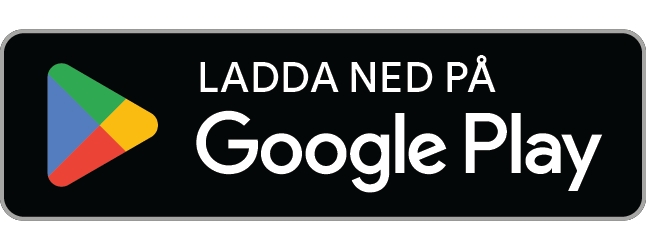
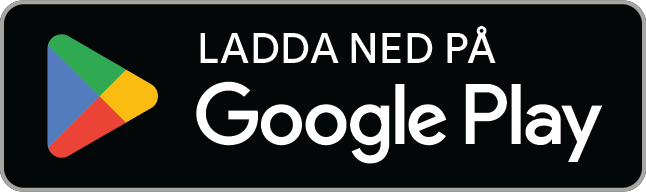
fix(website): granskningsfixar för första vyn (menyn läsbar vid scroll, korta breda fönster, Play-märket lika stort, bild- och rörelsedetaljer)

diff --git a/website/tests/home.spec.ts b/website/tests/home.spec.ts
@@ -11,6 +11,7 @@ test.describe('meny och sidfot', () => {
       await expect(nav.locator('.links a').first()).toHaveText(label);
       await expect(nav.locator('.nav-cta')).toHaveText(getApp);
       await expect(nav.locator('.nav-cta')).toHaveAttribute('href', `${path}#download`);
+      await page.evaluate(() => new Promise((r) => requestAnimationFrame(() => requestAnimationFrame(r))));
       await expect(nav).not.toHaveClass(/is-solid/);
       await expect(nav).toHaveCSS('background-color', 'rgba(0, 0, 0, 0)');
       await page.evaluate(() => window.scrollTo({ top: 3000, behavior: 'instant' }));
@@ -109,7 +110,7 @@ test.describe('första vyn', () => {
       await expect(hero.locator('.meta li')).toHaveCount(3);
       await expect(hero.locator('[data-hero-phone] .ph[role="img"]')).toHaveCount(1);
       await expect(hero.locator('[data-robin] img').first()).toBeVisible();
-      await expect(hero.locator('[data-birdy]')).toBeVisible();
+      await expect(hero.locator('[data-birdy] .birdy-shape')).toHaveCSS('opacity', '1');
       expect(errors).toEqual([]);
     });
   }
@@ -128,6 +129,37 @@ test.describe('första vyn', () => {
     });
   }
 
+  for (const [width, height] of [[1280, 720], [1366, 768], [1536, 730], [1600, 720], [1650, 700], [1920, 800], [1999, 800], [2000, 960], [2560, 1300]] as const) {
+    test(`korta och breda fönster: telefonen går fri och fötterna syns i ${width}×${height}`, async ({ page }) => {
+      await page.setViewportSize({ width, height });
+      await page.goto('/sv/');
+      const phone = (await page.locator('[data-hero-phone] .ph').boundingBox())!;
+      const robin = (await page.locator('[data-robin]').boundingBox())!;
+      const photo = (await page.locator('[data-hero] .photo').boundingBox())!;
+      const overlaps = phone.x < robin.x + robin.width && robin.x < phone.x + phone.width
+        && phone.y < robin.y + robin.height && robin.y < phone.y + phone.height;
+      expect(overlaps, `telefon ${JSON.stringify(phone)} rödhake ${JSON.stringify(robin)}`).toBe(false);
+      expect(robin.y + robin.height, 'fötterna ryms i fotot').toBeLessThanOrEqual(photo.y + photo.height);
+      expect(robin.x + robin.width).toBeLessThanOrEqual(width);
+    });
+  }
+
+  for (const [width, height] of [[390, 844], [1024, 768], [1440, 900]] as const) {
+    test(`menyn blir mossgrön innan texten når den i ${width}×${height}`, async ({ page }) => {
+      await page.setViewportSize({ width, height });
+      await page.goto('/sv/');
+      const nav = page.locator('#site-nav');
+      const navH = await nav.evaluate((n) => n.getBoundingClientRect().height);
+      const copyTop = await page.locator('[data-hero] .copy').evaluate((c) => c.getBoundingClientRect().top + scrollY);
+      const settle = () => page.evaluate(() => new Promise((r) => requestAnimationFrame(() => requestAnimationFrame(r))));
+      await page.evaluate((y) => window.scrollTo({ top: y, behavior: 'instant' }), Math.max(0, copyTop - navH - 30));
+      await settle();
+      await expect(nav).not.toHaveClass(/is-solid/);
+      await page.evaluate((y) => window.scrollTo({ top: y, behavior: 'instant' }), copyTop - navH + 2);
+      await expect(nav).toHaveClass(/is-solid/);
+    });
+  }
+
   test('rödhakens ruta börjar under menyn i 1920 px', async ({ page }) => {
     await page.setViewportSize({ width: 1920, height: 900 });
     await page.goto('/sv/');
@@ -137,11 +169,28 @@ test.describe('första vyn', () => {
   });
 
   test('rubriken ryms på två rader på dator', async ({ page }) => {
-    for (const width of [1024, 1280, 1440, 1920]) {
-      await page.setViewportSize({ width, height: 900 });
-      await page.goto('/sv/');
-      const lines = await page.locator('[data-hero] h1').evaluate((h) => Math.round(h.getBoundingClientRect().height / parseFloat(getComputedStyle(h).lineHeight)));
-      expect(lines, `${width} px`).toBeLessThanOrEqual(2);
+    for (const path of ['/sv/', '/']) {
+      for (const width of [1024, 1280, 1440, 1920]) {
+        await page.setViewportSize({ width, height: 900 });
+        await page.goto(path);
+        await page.evaluate(() => document.fonts.ready);
+        const lines = await page.locator('[data-hero] h1').evaluate((h) => Math.round(h.getBoundingClientRect().height / parseFloat(getComputedStyle(h).lineHeight)));
+        expect(lines, `${path} ${width} px`).toBeLessThanOrEqual(2);
+      }
     }
+  });
+});
+
+test.describe('Birdy-fågeln flyger', () => {
+  test('fågeln flyger iväg vid scroll och kommer tillbaka', async ({ page }) => {
+    await page.setViewportSize({ width: 1440, height: 900 });
+    await page.goto('/sv/');
+    const bird = page.locator('[data-birdy]');
+    await expect(bird.locator('.birdy-shape')).toHaveCSS('opacity', '1');
+    await page.evaluate(() => window.scrollTo({ top: 320, behavior: 'instant' }));
+    await expect.poll(() => bird.evaluate((b) => Number(getComputedStyle(b).opacity))).toBeLessThan(0.05);
+    await page.evaluate(() => window.scrollTo({ top: 0, behavior: 'instant' }));
+    await expect.poll(() => bird.evaluate((b) => getComputedStyle(b).opacity)).toBe('1');
+    await expect.poll(() => bird.evaluate((b) => getComputedStyle(b).transform)).toMatch(/^(none|matrix\(1, 0, 0, 1, 0, 0\))$/);
   });
 });

diff --git a/website/src/components/hero/hero-motion.ts b/website/src/components/hero/hero-motion.ts
@@ -24,7 +24,7 @@ if (hero && !reduce) {
       armed = false;
       bob.animate(
         [{ transform: 'none' }, { transform: 'scale(1.012, .962)', offset: 0.3 }, { transform: 'scale(.994, 1.022)', offset: 0.6 }, { transform: 'none' }],
-        { duration: 520, easing: 'ease-out' },
+        { duration: 520, easing: 'ease-out', composite: 'add' },
       );
     }
     if (p < 0.1) armed = true;
